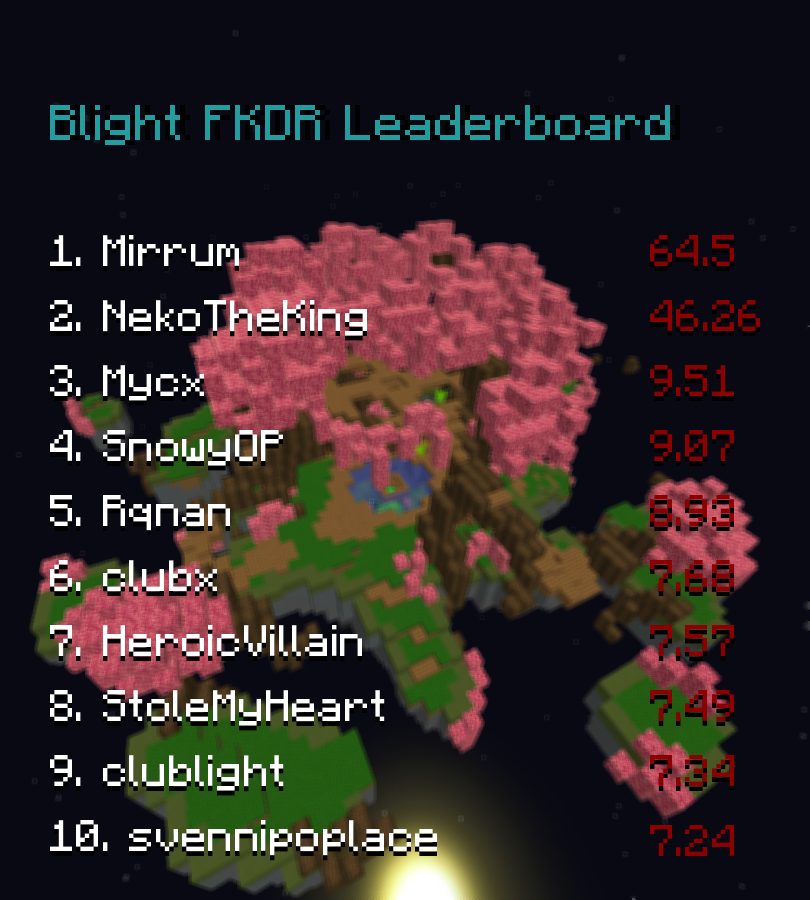
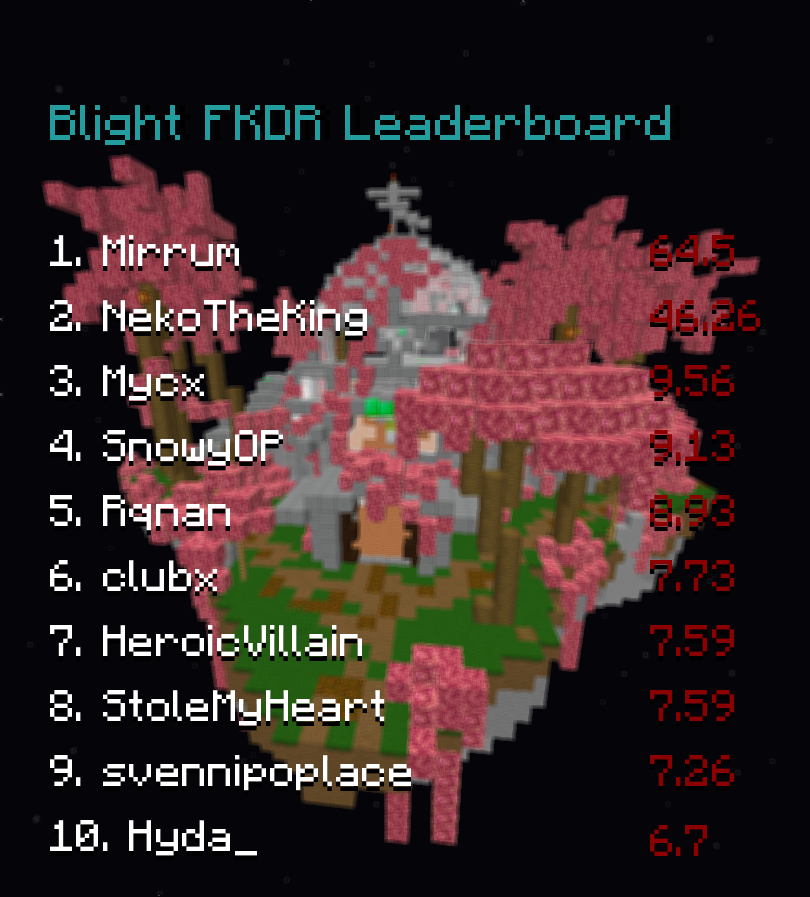
Fixed the game reqs

diff --git a/hypixelcommands.py b/hypixelcommands.py
@@ -572,77 +572,13 @@ class HypixelCommands(commands.Cog):
                     async with aiohttp.ClientSession() as session:
                         baddata = await session.get(f"https://api.hypixel.net/player?key={API_KEY}&uuid={uuid[i]}")
                         data = await baddata.json()
-                    try:
-                        async with aiohttp.ClientSession() as session:
-                            bestprofnf = await session.get(f'https://hypixel-api.senither.com/v1/profiles/{uuid[i]}/weight?key={API_KEY}')
-                            bestprof = await bestprofnf.json()
-                            badweight = bestprof["data"]["weight"]
-                    except:
-                        badweight = 0
-                        pass
-
-                    weight = round(badweight, 2)
-                    try:
-                        bedwars_star = data["player"]["achievements"]["bedwars_level"]
-                    except:
-                        bedwars_star = 0
-                    try:
-                        bedwars_final_death = data["player"]["stats"]["Bedwars"]["final_deaths_bedwars"]
-                    except:
-                        bedwars_final_death = 0
-                    try:
-                        bedwars_final_kills = data["player"]["stats"]["Bedwars"]["final_kills_bedwars"]
-                    except:
-                        bedwars_final_kills = 0
+                    pp, ppp = await get_reqs(data)
                     
-                    try:
-                        duelskills = data["player"]["stats"]["Duels"]["kills"]
-                    except:
-                        duelskills = 0
-                    try:
-                        duelsdeaths = data["player"]["stats"]["Duels"]["deaths"]
-                    except:
-                        duelsdeaths = 0
-                    try:
-                        notroundedduelskdr = duelskills/float(duelsdeaths)
-                    except:
-                        notroundedduelskdr = 0
-                    try:
-                        duelskdr = round(notroundedduelskdr, 2)
-                    except:
-                        duelskdr = 0
-                    try:
-                        duelswins = data["player"]["stats"]["Duels"]["wins"]
-                    except:
-                        duelswins = 0
-                    try:
-                        duelslosses = data["player"]["stats"]["Duels"]["losses"]
-                    except:
-                        duelslosses = 0
-                    try:
-                        bigduelswlr = duelswins/float(duelslosses)
-                    except:
-                        bigduelswlr = 0
-                    try:
-                        duelswlr = round(bigduelswlr, 2)
-                    except:
-                        duelswlr = 0
-                    try:
-                        bigfkdr = bedwars_final_kills/float(bedwars_final_death)
-                    except:
-                        bigfkdr = 0
-                    try:
-                        fkdr = round(bigfkdr, 2)
-                    except:
-                        fkdr = 0
-                    try:
-                        indexnotint = fkdr*2*bedwars_star
-                    except:
-                        indexnotint = 0
-                    try:
-                        index = int(indexnotint)
-                    except:
-                        index = 0
+                    bedwars_star = pp[0]
+                    fkdr = pp[1]
+                    index = pp[2]
+                    duelswins = ppp[0]
+                    duelswlr = ppp[1]
                     if index >= 550 and int(bedwars_star) >= 150 and float(fkdr) >= float(1) and duelswins >= 1500 and duelswlr >= 2:
                         async with aiohttp.ClientSession() as session:
                             badname = await session.get(f"https://sessionserver.mojang.com/session/minecraft/profile/{uuid[i]}")
